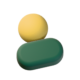
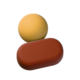
feat(theme): re-theme claymorphism palette and 3D assets to Deep Rust (#8B3103) & Pearl (#EAE0C8)

Changed region(s): [[0.2, 0.175, 0.8, 0.875]]

diff --git a/app/lib/core/constants/app_colors.dart b/app/lib/core/constants/app_colors.dart
@@ -1,43 +1,44 @@
 import 'package:flutter/material.dart';
 
-/// Centralized claymorphism colour design tokens for KursorQR.
+/// Centralized claymorphism colour design tokens for KursorQR: Deep Rust & Pearl.
 ///
-/// Rules of thumb: selected = gold, action = green, danger = coral.
+/// Anchors: Deep Rust (#8B3103) primary + Pearl (#EAE0C8) canvas.
+/// Rules of thumb: selected = amber gold, action = deep rust, danger = crimson coral.
 class AppColors {
   const AppColors._();
 
-  // Base warm clay surfaces
-  static const Color sand = Color(0xFFEFE8D6); // page background
-  static const Color sandDeep = Color(0xFFE6DEC8); // dialog barrier & deep backdrop
-  static const Color clay = Color(0xFFFBF6EA); // default raised clay surface
-  static const Color clayDeep = Color(0xFFF1EAD8); // sunken wells, inputs, tracks
+  // Base Pearl clay surfaces
+  static const Color sand = Color(0xFFEAE0C8); // Pearl page background
+  static const Color sandDeep = Color(0xFFDFD3B6); // dialog barrier & deep backdrop
+  static const Color clay = Color(0xFFF7F1E3); // luminous pearl clay surface
+  static const Color clayDeep = Color(0xFFE3D7BC); // sunken wells, inputs, tracks
 
   // Clay lighting (used by ClayDecoration, never directly by views)
   static const Color clayLight = Color(0xFFFFFFFF); // inner highlight, top-left
-  static const Color clayShade = Color(0xFF1A4731); // inner shade, bottom-right
-  static const Color clayShadow = Color(0xFF1A4731); // outer floating shadow
+  static const Color clayShade = Color(0xFF5C1F02); // warm burnt-rust inner shade
+  static const Color clayShadow = Color(0xFF5C1F02); // outer floating shadow
 
-  // Brand clay (primary actions)
-  static const Color primary = Color(0xFF2D6A4F);
-  static const Color primaryDeep = Color(0xFF1A4731);
-  static const Color primaryLight = Color(0xFF52B788);
-  static const Color mint = Color(0xFFCDE7D6);
+  // Brand clay (Deep Rust primary actions)
+  static const Color primary = Color(0xFF8B3103); // Deep Rust
+  static const Color primaryDeep = Color(0xFF5C1F02); // dark kiln rust
+  static const Color primaryLight = Color(0xFFC45722); // warm terracotta highlight
+  static const Color mint = Color(0xFFF0D6C4); // warm blush-apricot hover & info well
 
-  // Gold accent (selected states, hero highlights)
-  static const Color gold = Color(0xFFE8C464);
-  static const Color goldDeep = Color(0xFFC9A440);
-  static const Color goldLight = Color(0xFFFFE79A);
-  static const Color butter = Color(0xFFFFF0C2);
+  // Warm honey-gold accent (selected states, hero highlights)
+  static const Color gold = Color(0xFFDFA94B);
+  static const Color goldDeep = Color(0xFFB88329);
+  static const Color goldLight = Color(0xFFFAD284);
+  static const Color butter = Color(0xFFF9EAC8);
 
   // Semantic clay
-  static const Color coral = Color(0xFFF08A7E);
-  static const Color coralDeep = Color(0xFFD9675B);
-  static const Color coralSoft = Color(0xFFFCE2DE);
-  static const Color sage = Color(0xFF8FBF9F);
+  static const Color coral = Color(0xFFD9534F); // crimson danger actions
+  static const Color coralDeep = Color(0xFFB53531);
+  static const Color coralSoft = Color(0xFFF9D8D6);
+  static const Color sage = Color(0xFF5C8D6B); // earthy olive-sage active/success
 
-  // Typography (warm forest ink)
-  static const Color textPrimary = Color(0xFF1F3A2E);
-  static const Color textSecondary = Color(0xFF3F6350);
-  static const Color textMuted = Color(0xFF7A917F);
+  // Typography (warm espresso-umber ink)
+  static const Color textPrimary = Color(0xFF2C1608);
+  static const Color textSecondary = Color(0xFF5E3A24);
+  static const Color textMuted = Color(0xFF8E6E58);
   static const Color textOnPrimary = Colors.white;
 }

diff --git a/app/web/r.html b/app/web/r.html
@@ -5,19 +5,19 @@
   <meta name="viewport" content="width=device-width, initial-scale=1.0">
   <meta name="robots" content="noindex, nofollow">
   <meta name="referrer" content="no-referrer">
-  <meta name="theme-color" content="#EFE8D6">
+  <meta name="theme-color" content="#EAE0C8">
   <title>Redirecting… | KursorQR</title>
   <style>
     :root {
-      --sand: #EFE8D6;
-      --clay: #FBF6EA;
-      --clay-deep: #F1EAD8;
-      --primary: #2D6A4F;
-      --primary-deep: #1A4731;
-      --primary-light: #52B788;
-      --mint: #CDE7D6;
-      --text: #1F3A2E;
-      --muted: #5C7A68;
+      --sand: #EAE0C8;
+      --clay: #F7F1E3;
+      --clay-deep: #E3D7BC;
+      --primary: #8B3103;
+      --primary-deep: #5C1F02;
+      --primary-light: #C45722;
+      --mint: #F0D6C4;
+      --text: #2C1608;
+      --muted: #78553F;
     }
     * { box-sizing: border-box; margin: 0; padding: 0; }
     body {
@@ -37,9 +37,9 @@
       border-radius: 32px;
       text-align: center;
       box-shadow:
-        0 18px 28px rgba(26, 71, 49, 0.18),
+        0 18px 28px rgba(92, 31, 2, 0.18),
         inset 6px 6px 12px rgba(255, 255, 255, 0.9),
-        inset -6px -6px 12px rgba(26, 71, 49, 0.14);
+        inset -6px -6px 12px rgba(92, 31, 2, 0.14);
     }
     .spinner-well {
       width: 60px;
@@ -50,7 +50,7 @@
       display: grid;
       place-items: center;
       box-shadow:
-        inset 4px 4px 8px rgba(26, 71, 49, 0.13),
+        inset 4px 4px 8px rgba(92, 31, 2, 0.14),
         inset -4px -4px 8px rgba(255, 255, 255, 0.8);
     }
     .spinner {
@@ -85,9 +85,9 @@
       font-size: 0.92rem;
       font-weight: 700;
       box-shadow:
-        0 10px 20px rgba(26, 71, 49, 0.25),
-        inset 3px 3px 6px rgba(82, 183, 136, 0.55),
-        inset -3px -3px 6px rgba(26, 71, 49, 0.5);
+        0 10px 20px rgba(92, 31, 2, 0.28),
+        inset 3px 3px 6px rgba(196, 87, 34, 0.55),
+        inset -3px -3px 6px rgba(92, 31, 2, 0.55);
       transition: transform 120ms ease-out;
     }
     a.btn:active {

diff --git a/app/lib/viewmodels/qr_studio_viewmodel.dart b/app/lib/viewmodels/qr_studio_viewmodel.dart
@@ -38,34 +38,34 @@ class QrStudioViewModel extends ChangeNotifier {
   }
 
   static const List<Color> fgSwatches = [
-    Color(0xFF1A4731),
-    Color(0xFF2D6A4F),
-    Color(0xFF0F172A),
+    Color(0xFF8B3103),
+    Color(0xFF5C1F02),
+    Color(0xFF2C1608),
     Color(0xFF4F46E5),
     Color(0xFF1D4ED8),
-    Color(0xFFBE123C),
+    Color(0xFF1A4731),
     Color(0xFF7C3AED),
   ];
 
   static const List<Color> bgSwatches = [
     Color(0xFFFFFFFF),
-    Color(0xFFFBF6EA),
-    Color(0xFFEFE8D6),
+    Color(0xFFF7F1E3),
+    Color(0xFFEAE0C8),
+    Color(0xFFF9EAC8),
     Color(0xFFECFDF5),
-    Color(0xFFFFFBEB),
-    Color(0xFF1A4731),
+    Color(0xFF2C1608),
   ];
 
   static const List<QrGradientPreset> gradientPresets = [
     QrGradientPreset(
-      label: 'Forest → Emerald',
-      start: Color(0xFF1A4731),
-      end: Color(0xFF52B788),
+      label: 'Deep Rust → Terracotta',
+      start: Color(0xFF5C1F02),
+      end: Color(0xFFC45722),
     ),
     QrGradientPreset(
-      label: 'Forest → Gold',
-      start: Color(0xFF1A4731),
-      end: Color(0xFFC9A440),
+      label: 'Deep Rust → Gold',
+      start: Color(0xFF8B3103),
+      end: Color(0xFFDFA94B),
     ),
     QrGradientPreset(
       label: 'Indigo → Ocean',
@@ -73,9 +73,9 @@ class QrStudioViewModel extends ChangeNotifier {
       end: Color(0xFF0284C7),
     ),
     QrGradientPreset(
-      label: 'Violet → Rose',
-      start: Color(0xFF7C3AED),
-      end: Color(0xFFE11D48),
+      label: 'Forest → Emerald',
+      start: Color(0xFF1A4731),
+      end: Color(0xFF52B788),
     ),
   ];
 

diff --git a/app/web/index.html b/app/web/index.html
@@ -7,7 +7,7 @@
   <meta content="IE=Edge" http-equiv="X-UA-Compatible">
   <meta name="viewport" content="width=device-width, initial-scale=1.0">
   <meta name="description" content="KursorQR — Free, 100% GDPR-compliant dynamic QR code generator and smart iOS/Android app store redirection platform. Zero cookies, zero tracking.">
-  <meta name="theme-color" content="#EFE8D6">
+  <meta name="theme-color" content="#EAE0C8">
 
   <!-- iOS meta tags & icons -->
   <meta name="mobile-web-app-capable" content="yes">
@@ -32,7 +32,7 @@
     html, body {
       margin: 0;
       padding: 0;
-      background: #EFE8D6;
+      background: #EAE0C8;
     }
 
     /* Claymorphism HTML splash: shown until Flutter paints its first frame. */
@@ -45,7 +45,7 @@
       align-items: center;
       justify-content: center;
       gap: 18px;
-      background: #EFE8D6;
+      background: #EAE0C8;
       opacity: 1;
       transition: opacity 250ms ease-out;
       pointer-events: none;
@@ -60,7 +60,7 @@
       height: 96px;
       display: block;
       border-radius: 28px;
-      box-shadow: 0 18px 28px rgba(26, 71, 49, 0.22);
+      box-shadow: 0 18px 28px rgba(92, 31, 2, 0.24);
       animation: splashBob 2.4s ease-in-out infinite;
       will-change: transform;
     }
@@ -69,7 +69,7 @@
       font-size: 19px;
       font-weight: 800;
       letter-spacing: -0.4px;
-      color: #1F3A2E;
+      color: #2C1608;
     }
     @keyframes splashBob {
       0%, 100% { transform: translateY(-6px); }

diff --git a/app/lib/views/landing/instant_qr_sandbox.dart b/app/lib/views/landing/instant_qr_sandbox.dart
@@ -142,12 +142,12 @@ class _InstantQrSandboxState extends State<InstantQrSandbox> {
                     onTap: () => vm.applyGradientPreset(preset),
                   ),
                 ClayColorKnob(
-                  color: AppColors.primaryDeep,
-                  tooltip: 'Classic Forest',
+                  color: AppColors.primary,
+                  tooltip: 'Classic Deep Rust',
                   selected: !design.useGradient,
                   onTap: () {
                     vm.setUseGradient(false);
-                    vm.setFgColor(AppColors.primaryDeep);
+                    vm.setFgColor(AppColors.primary);
                   },
                 ),
               ],

diff --git a/app/lib/widgets/shared/brand_logo.dart b/app/lib/widgets/shared/brand_logo.dart
@@ -30,15 +30,15 @@ class BrandLogo extends StatelessWidget {
       padding: EdgeInsets.all(size * 0.08),
       alignment: Alignment.center,
       decoration: ClayDecoration(
-        color: AppColors.primaryDeep,
+        color: AppColors.primary,
         radius: radius,
         depth: 4,
         lift: 8,
-        shadowOpacity: 0.22,
+        shadowOpacity: 0.24,
         highlightColor: AppColors.primaryLight,
-        highlightOpacity: 0.45,
+        highlightOpacity: 0.5,
         shadeColor: AppColors.primaryDeep,
-        shadeOpacity: 0.5,
+        shadeOpacity: 0.55,
       ),
       child: ClayAssetIcon(
         asset: logoAsset,

diff --git a/app/lib/views/dialogs/qr_studio_dialog.dart b/app/lib/views/dialogs/qr_studio_dialog.dart
@@ -585,7 +585,7 @@ class _ColorKnobRow extends StatelessWidget {
             controller: hexController,
             onChanged: onHexChanged,
             monospace: true,
-            hint: '#1A4731',
+            hint: '#8B3103',
             contentPadding:
                 const EdgeInsets.symmetric(horizontal: 12, vertical: 9),
           ),

diff --git a/tools/blender/render_clay_assets.py b/tools/blender/render_clay_assets.py
@@ -79,20 +79,20 @@ if OPTS["out"]:
 # --------------------------------------------------------------------------------------
 
 TOKENS_HEX = {
-    "sand": "EFE8D6",
-    "clay": "FBF6EA",
-    "clayDeep": "F1EAD8",
-    "primary": "2D6A4F",
-    "primaryDeep": "1A4731",
-    "primaryLight": "52B788",
-    "mint": "CDE7D6",
-    "gold": "E8C464",
-    "goldDeep": "C9A440",
-    "goldLight": "FFE79A",
-    "butter": "FFF0C2",
-    "coral": "F08A7E",
-    "coralDeep": "D9675B",
-    "sage": "8FBF9F",
+    "sand": "EAE0C8",
+    "clay": "F7F1E3",
+    "clayDeep": "E3D7BC",
+    "primary": "8B3103",
+    "primaryDeep": "5C1F02",
+    "primaryLight": "C45722",
+    "mint": "F0D6C4",
+    "gold": "DFA94B",
+    "goldDeep": "B88329",
+    "goldLight": "FAD284",
+    "butter": "F9EAC8",
+    "coral": "D9534F",
+    "coralDeep": "B53531",
+    "sage": "5C8D6B",
 }
 
 TOKEN_BASE = {}
@@ -671,13 +671,13 @@ def calibrate_tokens(iterations=4, verbose=True):
 
 
 def build_logo():
-    """Chunky forest-green squircle with three embossed gold QR finder blocks + gold cursor."""
-    slab("logo_base", 2.0, 2.0, 0.24, "primaryDeep", radius=0.48, bevel_frac=0.14)
-    qr_finder("logo_tl", 0.58, 0.14, "gold", inner_token="primaryDeep", dot_token="goldLight",
+    """Chunky Deep Rust squircle with three embossed Pearl QR finder blocks + warm Gold cursor."""
+    slab("logo_base", 2.0, 2.0, 0.24, "primary", radius=0.48, bevel_frac=0.14)
+    qr_finder("logo_tl", 0.58, 0.14, "clay", inner_token="primary", dot_token="goldLight",
               location=(-0.44, 0.44, 0.15))
-    qr_finder("logo_tr", 0.58, 0.14, "gold", inner_token="primaryDeep", dot_token="goldLight",
+    qr_finder("logo_tr", 0.58, 0.14, "clay", inner_token="primary", dot_token="goldLight",
               location=(0.44, 0.44, 0.15))
-    qr_finder("logo_bl", 0.58, 0.14, "gold", inner_token="primaryDeep", dot_token="goldLight",
+    qr_finder("logo_bl", 0.58, 0.14, "clay", inner_token="primary", dot_token="goldLight",
               location=(-0.44, -0.44, 0.15))
     cursor_arrow("logo_cursor", scale=0.82, thickness=0.18, token="gold",
                  location=(0.40, -0.36, 0.21), rotation=(0, 0, 22))

diff --git a/docs/CLAYMORPHISM_REDESIGN.md b/docs/CLAYMORPHISM_REDESIGN.md
@@ -16,14 +16,14 @@ Invariants: Firebase Spark Auth & EU Cloud Firestore schema, `firestore.rules`, 
 - **Color discipline**: **Action = Forest Green (`primary`)**, **Selected / Highlight CTA = Gold (`gold`)**, **Danger = Coral (`coral`)**.
 - **Anti-clutter**: Pills/chips are permitted **only when interactive**. Static decorative badges are removed; exclamation marks are removed from all user-facing strings and toasts.
 
-### A.2 Palette (`app/lib/core/constants/app_colors.dart`)
+### A.2 Palette (`app/lib/core/constants/app_colors.dart` — Deep Rust & Pearl)
 
-- Base: `sand` `#EFE8D6`, `sandDeep` `#E6DEC8`, `clay` `#FBF6EA`, `clayDeep` `#F1EAD8`
-- Lighting: `clayLight` `#FFFFFF`, `clayShade` `#1A4731`, `clayShadow` `#1A4731`
-- Primary: `primary` `#2D6A4F`, `primaryDeep` `#1A4731`, `primaryLight` `#52B788`, `mint` `#CDE7D6`
-- Gold accent: `gold` `#E8C464`, `goldDeep` `#C9A440`, `goldLight` `#FFE79A`, `butter` `#FFF0C2`
-- Semantic: `coral` `#F08A7E`, `coralDeep` `#D9675B`, `coralSoft` `#FCE2DE`, `sage` `#8FBF9F`
-- Text: `textPrimary` `#1F3A2E`, `textSecondary` `#3F6350`, `textMuted` `#7A917F`, `textOnPrimary` `#FFFFFF`
+- Base: `sand` `#EAE0C8` (Pearl), `sandDeep` `#DFD3B6`, `clay` `#F7F1E3`, `clayDeep` `#E3D7BC`
+- Lighting: `clayLight` `#FFFFFF`, `clayShade` `#5C1F02`, `clayShadow` `#5C1F02`
+- Primary: `primary` `#8B3103` (Deep Rust), `primaryDeep` `#5C1F02`, `primaryLight` `#C45722`, `mint` `#F0D6C4`
+- Accent: `gold` `#DFA94B`, `goldDeep` `#B88329`, `goldLight` `#FAD284`, `butter` `#F9EAC8`
+- Semantic: `coral` `#D9534F`, `coralDeep` `#B53531`, `coralSoft` `#F9D8D6`, `sage` `#5C8D6B`
+- Text: `textPrimary` `#2C1608`, `textSecondary` `#5E3A24`, `textMuted` `#8E6E58`, `textOnPrimary` `#FFFFFF`
 
 ### A.3 Spacing & Radii (`app/lib/core/constants/app_dimensions.dart`)
 
